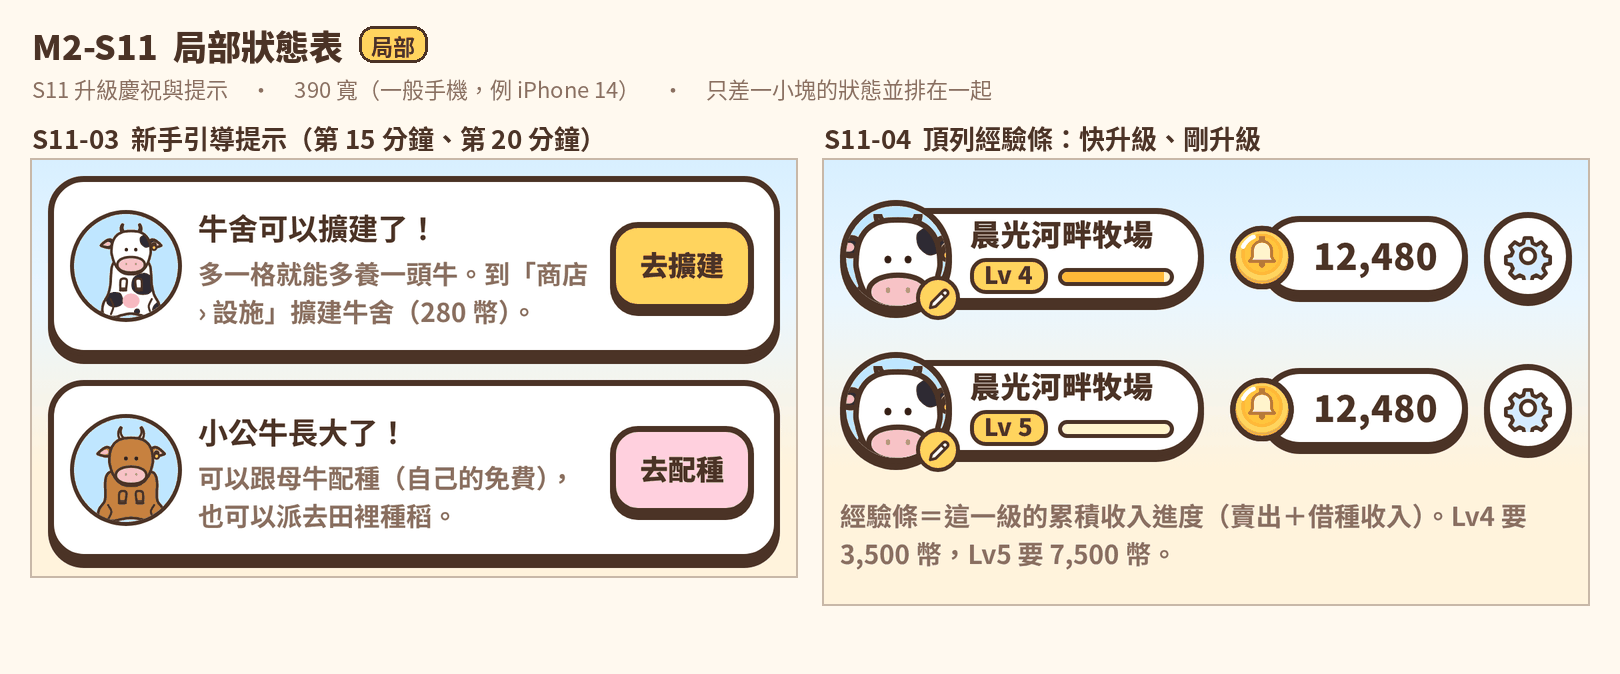
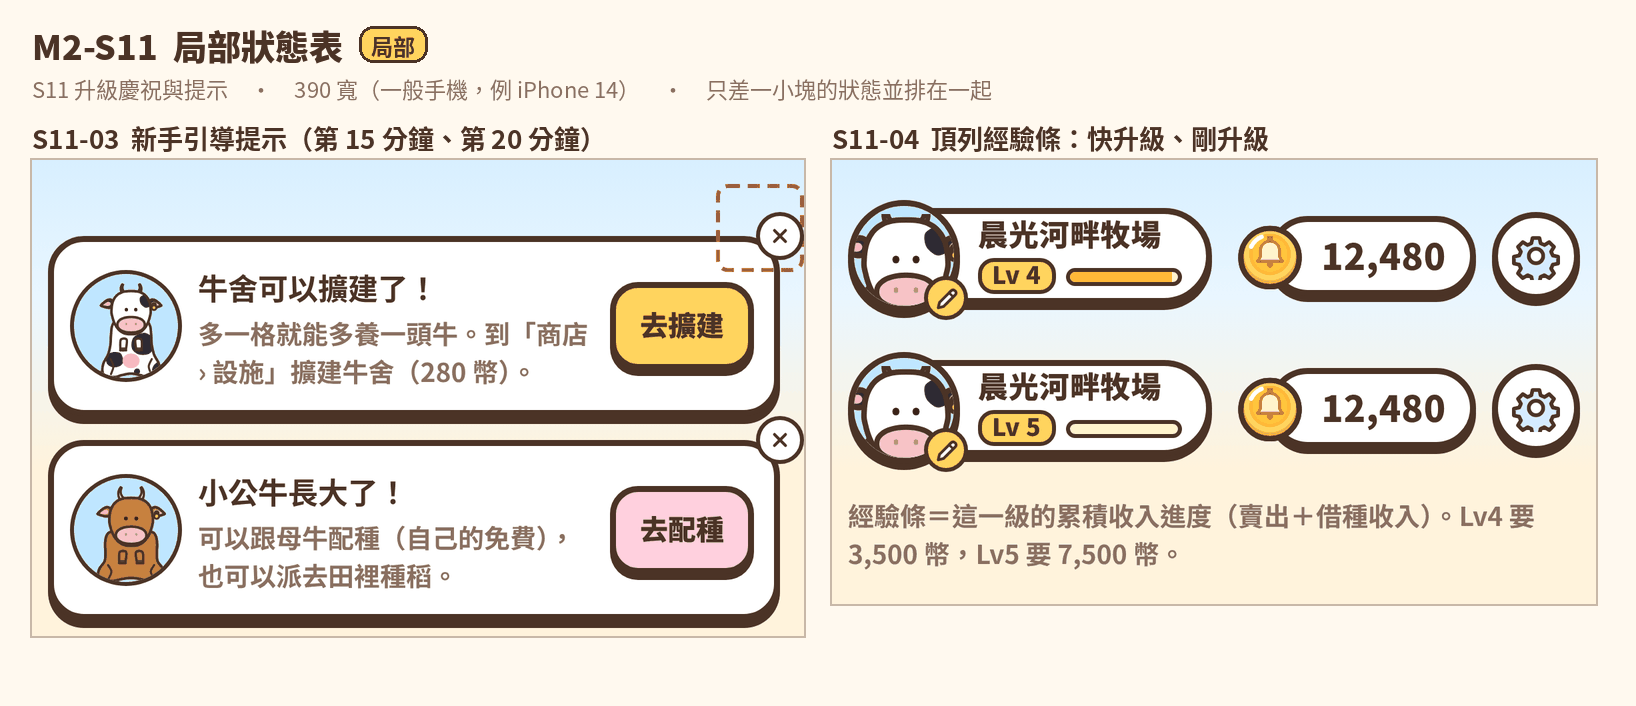
S11 新手引導卡：右上角 ×（白色圓章、點得到 44 × 44）和 S11-06 卡片在牧場頁；cow-app #136 其他三點寫進 scope.md

diff --git a/design/m2/src/js/screens/s10.js b/design/m2/src/js/screens/s10.js
@@ -96,12 +96,31 @@ const S11 = [];
 const full11 = (id, name, render, x = {}) => S11.push({ id, name, type: 'full', render, ...x });
 const part11 = (id, name, crop, render, x = {}) => S11.push({ id, name, type: 'part', crop, render, ...x });
 full11('S11-01', '場主升級慶祝', (ctx) => levelUp(ctx, { lv: 5 }));
-part11('S11-03', '新手引導提示（第 15 分鐘、第 20 分鐘）', '#crop', (ctx) => frame(ctx.dev, { tab: null, hud: false, content: `<div id="crop" class="stack">
-  <div class="coach"><span class="coach-ic">${cowSVG({ breed: 'holstein' }, { w: 56, h: 56 })}</span><div class="grow"><b>${t('s11.coachPenTitle')}</b><p>${t('s11.coachPenBody', { price: 280 })}</p></div><span class="coach-go">${btn(t('s11.coachPenGo'), { small: true, kind: 'primary' })}</span></div>
-  <div class="coach"><span class="coach-ic">${cowSVG({ breed: 'yellow', sex: 'bull', seed: 33 }, { w: 56, h: 56 })}</span><div class="grow"><b>${t('s11.coachBullTitle')}</b><p>${t('s11.coachBullBody')}</p></div><span class="coach-go">${btn(t('s11.coachBullGo'), { small: true, kind: 'pink' })}</span></div></div>` }));
+// 新手引導卡（企劃書 4.13；cow-app #136 的做法，ceo 2026-10-03 同意）：右上角的 × 是白色小圓章（直徑 24），圓心在卡片的右上角；
+// 點得到的範圍 44 × 44（就是 button 本身）往上超出卡片 26、往右超出 12（卡片裡放不下，會碰到按鈕）。hit：用虛線畫出點得到的範圍（說明用）
+function coachCard(kind, { cls = '', hit = false } = {}) {
+  const pen = kind === 'pen';
+  const pic = pen ? cowSVG({ breed: 'holstein' }, { w: 56, h: 56 }) : cowSVG({ breed: 'yellow', sex: 'bull', seed: 33 }, { w: 56, h: 56 });
+  const text = pen ? `<b>${t('s11.coachPenTitle')}</b><p>${t('s11.coachPenBody', { price: 280 })}</p>` : `<b>${t('s11.coachBullTitle')}</b><p>${t('s11.coachBullBody')}</p>`;
+  const go = pen ? btn(t('s11.coachPenGo'), { small: true, kind: 'primary' }) : btn(t('s11.coachBullGo'), { small: true, kind: 'pink' });
+  return `<div class="coach${cls ? ` ${cls}` : ''}${hit ? ' show-hit' : ''}"><span class="coach-ic">${pic}</span><div class="grow">${text}</div><span class="coach-go">${go}</span>
+    <button class="coach-x" aria-label="${t('g.close')}"><span class="cx-dot">${icon('close', 12)}</span></button></div>`;
+}
+part11('S11-03', '新手引導提示（第 15 分鐘、第 20 分鐘）', '#crop', (ctx) => frame(ctx.dev, { tab: null, hud: false, content: `<div id="crop" class="stack coach-sheet">
+  ${coachCard('pen', { hit: true })}
+  ${coachCard('bull')}</div>` }));
 part11('S11-04', '頂列經驗條：快升級、剛升級', '#crop', (ctx) => frame(ctx.dev, { tab: null, hud: false, content: `<div id="crop" class="g-sheet">
   <div class="g-hud">${hud({ level: 4, xp: 96, w: ctx.dev.w })}</div><div class="g-hud">${hud({ level: 5, xp: 0, w: ctx.dev.w })}</div>
   <p class="hint" data-note>經驗條＝這一級的累積收入進度（賣出＋借種收入）。Lv4 要 3,500 幣，Lv5 要 7,500 幣。</p></div>` }));
+
+// 新手引導卡在牧場頁：跑馬燈下面 12、左右各 12，蓋在「我的牛」上面（關掉就回來）；開局第 15 分鐘的牧場（還沒升級、小公牛還沒長大）
+full11('S11-06', '新手引導卡在牧場頁', (ctx) => ranchPage(ctx, {
+  herd: [{ id: 1, breed: 'holstein', x: 96, y: 420, facing: 'right', depth: 1, milk: true }, { id: 2, breed: 'yellow', sex: 'bull', age: 'calf', seed: 33, x: 262, y: 432, facing: 'left', depth: 1 }],
+  pen: { used: 2, slots: 2 },
+  hud: { level: 1, xp: 64, coins: 412 },
+  dock: { bucket: { qty: 6.2, cap: 28, perHour: 14 }, milkLots: [{ qty: 9, tier: 0, fresh: 1 }], cap: 150, beef: 0, rice: 0 },
+  overlays: coachCard('pen', { cls: 'on-ranch' }),
+}));
 
 // 升到 Lv2 的慶祝卡關掉以後出現一次（D22；企劃書 4.11）。這時候還沒備份、也沒打開過備份頁，所以頂列的齒輪上有小點。
 full11('S11-05', '升到 Lv2 之後：提醒備份牧場（只出現一次）', (ctx) => ranchPage(ctx, {

diff --git a/design/m2/src/css/screens.css b/design/m2/src/css/screens.css
@@ -458,7 +458,13 @@
 .lv-big b { font-size: 76px; line-height: 88px; color: var(--ink); -webkit-text-stroke: 0; }
 .lv-sub { font-size: 18px; font-weight: 900; text-align: center; margin-bottom: 6px; }
 .unlock-box { display: flex; flex-direction: column; align-items: center; gap: 6px; width: 100%; padding: 10px; background: #FFFFFF; border: 2px solid var(--line-soft); border-radius: 16px; }
-.coach { display: flex; align-items: center; gap: 8px; padding: 10px 10px 10px 8px; background: #FFFFFF; border: 3px solid var(--ink); border-radius: 18px; box-shadow: 0 4px 0 var(--ink); }
+.coach { position: relative; display: flex; align-items: center; gap: 8px; padding: 10px 10px 10px 8px; background: #FFFFFF; border: 3px solid var(--ink); border-radius: 18px; box-shadow: 0 4px 0 var(--ink); }
+/* 右上角的 ×：白色小圓章（直徑 24、框 2.5、圖示 12），圓心在卡片外框的右上角（cow-app #136）；點得到的範圍 44 × 44 往上超出 26、往右超出 12 */
+.coach-x { position: absolute; right: -15px; top: -29px; width: 44px; height: 44px; padding: 0; background: none; border: 0; } /* 點得到的範圍：外框右邊 +12、上面 −26 */
+.coach-x .cx-dot { position: absolute; left: 20px; top: 14px; width: 24px; height: 24px; border-radius: 12px; background: #FFFFFF; border: 2.5px solid var(--ink); display: grid; place-items: center; line-height: 0; }
+.coach.show-hit .coach-x { outline: 2px dashed #C2541B; outline-offset: -2px; border-radius: 6px; } /* 局部表：虛線是點得到的範圍（說明用） */
+.coach-sheet { padding-top: 30px; margin-right: -12px; padding-right: 12px; } /* 局部表：上面、右邊留出 × 和點得到的範圍，卡片寬度不變 */
+.coach.on-ranch { position: absolute; left: 12px; right: 12px; top: calc(var(--safe-top) + var(--hud-h) + 58px); z-index: 60; }
 .coach-ic { flex: none; width: 56px; height: 56px; border-radius: 50%; background: #BFE6FF; border: 2.5px solid var(--ink); overflow: hidden; line-height: 0; display: grid; place-items: end center; }
 .coach b { font-size: 15px; line-height: 20px; }
 .coach p { font-size: 13px; font-weight: 700; line-height: 19px; color: var(--ink-2); margin-top: 2px; }

diff --git a/design/m2/measure/summary-th.md b/design/m2/measure/summary-th.md
@@ -9,10 +9,10 @@
 
 | 寬度 | 狀態數 | 最小字級 | 有問題的狀態 | 橫向捲動 | 刻意截成「…」 | 要往下捲的狀態 |
 |---|---|---|---|---|---|---|
-| 430×932 | 186 | 12 px | 0 | 0 | 0 | 38 |
-| 390×844 | 186 | 12 px | 0 | 0 | 2 | 49 |
-| 360×800 | 186 | 12 px | 2 | 0 | 4 | 57 |
-| 320×568 | 186 | 12 px | 3 | 0 | 125 | 80 |
+| 430×932 | 187 | 12 px | 0 | 0 | 0 | 38 |
+| 390×844 | 187 | 12 px | 0 | 0 | 2 | 49 |
+| 360×800 | 187 | 12 px | 2 | 0 | 4 | 57 |
+| 320×568 | 187 | 12 px | 3 | 0 | 125 | 80 |
 
 ## 430×932
 
@@ -173,7 +173,7 @@
 | S19-05 | 320 | ความหายาก、หายาก | เลือกได้แค่เกรด ส่วนประเภท เพศ และความหา⏎ยากจะสุ่ม โดยเปิดเผยโอกาสทั้งหมด วัวที่ได้จะ⏎เป็นลูกวัว |
 | S19-05 | 320 | หายาก | สุ่มได้วัวหา⏎ยากง่าย⏎ที่สุด |
 
-<details><summary>所有換了行的泰文（183 句，給校對看斷詞）</summary>
+<details><summary>所有換了行的泰文（185 句，給校對看斷詞）</summary>
 
 | 實際換行（⏎） | Intl.Segmenter 斷詞（\|） |
 |---|---|
@@ -294,6 +294,7 @@
 | ซูเปอร์ไต้ฝุ่นถล่ม ตลาดปิด⏎ทั้งหมด | ซู \| เปอร์ \| ไต้ฝุ่น \| ถล่ม \|   \| ตลาด \| ปิด \| ทั้งหมด |
 | ตัวเล็กสีน้ำตาลอ่อน หน้าสั้น ดวงตากลมโตเป็น⏎ประกาย | ตัว \| เล็ก \| สี \| น้ำตาล \| อ่อน \|   \| หน้า \| สั้น \|   \| ดวงตา \| กลม \| โต \| เป็น \| ประกาย |
 | 9.8 / 28 ขวด⏎เต็มในอีก ~1 ชม. 18 นาที | 9.8 \|   \| / \|   \| 28 \|   \| ขวด \| เต็ม \| ใน \| อีก \|   \| ~ \| 1 \|   \| ชม \| . \|   \| 18 \|   \| นาที |
+| 6.2 / 28 ขวด⏎เต็มในอีก ~1 ชม. 34 นาที | 6.2 \|   \| / \|   \| 28 \|   \| ขวด \| เต็ม \| ใน \| อีก \|   \| ~ \| 1 \|   \| ชม \| . \|   \| 34 \|   \| นาที |
 | เปลี่ยนมือถือหรือมือถือเสียก็กู้⏎คืนได้ | เปลี่ยน \| มือ \| ถือ \| หรือ \| มือ \| ถือ \| เสีย \| ก็ \| กู้ \| คืน \| ได้ |
 | ตอนนี้ "晨光河畔牧場" อยู่ในมือถือเครื่อง⏎อื่น | ตอน \| นี้ \|   \| " \| 晨光 \| 河畔 \| 牧場 \| " \|   \| อยู่ \| ใน \| มือ \| ถือ \| เครื่อง \| อื่น |
 | เซิร์ฟเวอร์มีปัญหาเล็กน้อย โปรดลองใหม่ภาย⏎หลัง | เซิร์ฟเวอร์ \| มี \| ปัญหา \| เล็ก \| น้อย \|   \| โปรด \| ลอง \| ใหม่ \| ภาย \| หลัง |
@@ -339,6 +340,7 @@
 | ขยายคอกวัวได้⏎แล้ว! | ขยาย \| คอก \| วัว \| ได้ \| แล้ว \| ! |
 | ลูกวัวตัวผู้โต⏎แล้ว! | ลูกวัว \| ตัวผู้ \| โต \| แล้ว \| ! |
 | นมใช้พื้นที่ ⏎12% | นม \| ใช้ \| พื้นที่ \|   \| 12 \| % |
+| นมใช้พื้นที่ ⏎6% | นม \| ใช้ \| พื้นที่ \|   \| 6 \| % |
 | จำนวนสายพันธุ์ที่พบ สูงสุด 24 สายพันธุ์ ดึงลงเพื่อโหลด⏎ใหม่ | จำนวน \| สาย \| พันธุ์ \| ที่ \| พบ \|   \| สูงสุด \|   \| 24 \|   \| สาย \| พันธุ์ \|   \| ดึง \| ลง \| เพื่อ \| โหลด \| ใหม่ |
 | คำนวณใหม่ทุกวันอาทิตย์ เวลา 23:00 ดึงลงเพื่อโหลด⏎ใหม่ | คำนวณ \| ใหม่ \| ทุก \| วัน \| อาทิตย์ \|   \| เวลา \|   \| 23 \| : \| 00 \|   \| ดึง \| ลง \| เพื่อ \| โหลด \| ใหม่ |
 | ฟาร์มที่ไม่ได้สำรองไว้ ถ้ามือถือเสียจะกู้คืนไม่⏎ได้ | ฟาร์ม \| ที่ \| ไม่ \| ได้ \| สำรอง \| ไว้ \|   \| ถ้า \| มือ \| ถือ \| เสีย \| จะ \| กู้ \| คืน \| ไม่ \| ได้ |

diff --git a/design/m2/scope.md b/design/m2/scope.md
@@ -325,15 +325,18 @@
 | S11-03 | 新手引導提示：第 15 分鐘「牛舍可以擴建了」、第 20 分鐘「小公牛長大了，可以配種或派去田裡」 | 局部 | 企劃書 4.13 | 新 | 無 |
 | S11-04 | 頂列經驗條：剛升級、快升級 | 局部 | `level_progress` 的 `earned`、`level_at`、`next_at` | 新 | 無 |
 | S11-05 | 升到 Lv2 之後：提醒備份牧場（只出現一次）；「現在備份」「之後再說」 | 整頁 | Lv2 的慶祝卡關掉以後（企劃書 4.11，D22） | 新 | 無 |
+| S11-06 | 新手引導卡在牧場頁：跑馬燈下面，蓋住「我的牛」；右上角 × | 整頁 | 同 S11-03（cow-app #136） | 新 | 無 |
 
 - D24：第一版沒有等級解鎖，原本的 S11-02（升到 Lv3 解鎖 K 線）拿掉。等級只看累積收入（賣出＋借種收入），出貨本身和發現新品種不算。
 - S11-01 彩紙的顏色以 `s10.js` 的色表為準：#FFD45E、#FF9784、#A9DBFF、#BDE8A6、#FFD0DE。以前的 PNG 上第 3–5 種看起來是薄荷綠、米色、淡粉，是存成 256 色時換掉的；2026-10-03 改了調色盤以後是對的顏色（第 1 節「PNG 的顏色」；cow-app #121）。
-- S11-03 新手引導卡（cow-app 的提案，ceo 2026-10-03 同意）：
-  - 放在牧場頁、跑馬燈下面，左右各 12，蓋在場景上。玩家不在牧場頁時等回到牧場頁再出。
+- S11-03 新手引導卡（cow-app 的提案，ceo 2026-10-03 同意；× 和下面幾條照 cow-app #136 的做法補進設計稿）：
+  - 放在牧場頁、跑馬燈下面 12，左右各 12，蓋在場景上（S11-06）。會蓋住「我的牛 n / m」，卡片收起來就回來。玩家不在牧場頁時等回到牧場頁再出。
   - 一次一張：兩張都到時間時先出「牛舍可以擴建了」（第 15 分鐘），關掉以後才出下一張。
-  - 右上角一個小 ×（點得到的範圍至少 44 × 44）。
+  - 右上角的 ×：白色小圓章，直徑 24、框 2.5、關閉圖示 12，圓心在卡片外框的右上角。點得到的範圍 44 × 44 是另一塊，往上超出卡片 26、往右超出 12（卡片裡放不下 44 × 44，會碰到按鈕）；往上會蓋到跑馬燈的下緣，跑馬燈沒有點擊動作。讀螢幕讀「關閉」。局部表 S11-03 用虛線畫出點得到的範圍。
   - 每張只出現一次：按 × 或按卡上的按鈕（去擴建、去配種）都算看過，以後不再出。
-  - 狀態表 S11-03 畫的是卡片內容，× 照這一條加。
+  - 很矮的手機（320 × 568）英文、泰文：說明比較長、卡片比較高，會蓋到下面面板的上緣（包括「收奶」的上半）。跟大新聞一樣放在最上層，按鈕和 × 都點得到，按掉以後面板就回來；不改面板的收合狀態。繁中和其他寬度不會疊到。
+  - 說明的換行：設計稿（Chrome）讓行尾的「」」只佔半格，「設施」」擠得進同一行；app（Flutter）沒有這個規則，換行不一樣。以 app 的換行為準，設計稿不改。
+  - 牛臉：照局部表畫出來的樣子就是規格（56 的牛圖貼在圓的左上角，右下被圓裁掉；`.coach-ic` 的 place-items 在這裡沒有作用），不改。
 
 ### S12 排行榜
 

diff --git a/design/m2/measure/summary-en.md b/design/m2/measure/summary-en.md
@@ -9,10 +9,10 @@
 
 | 寬度 | 狀態數 | 最小字級 | 有問題的狀態 | 橫向捲動 | 刻意截成「…」 | 要往下捲的狀態 |
 |---|---|---|---|---|---|---|
-| 430×932 | 186 | 12 px | 0 | 0 | 0 | 38 |
-| 390×844 | 186 | 12 px | 0 | 0 | 2 | 49 |
-| 360×800 | 186 | 12 px | 1 | 0 | 6 | 58 |
-| 320×568 | 186 | 12 px | 3 | 0 | 125 | 82 |
+| 430×932 | 187 | 12 px | 0 | 0 | 0 | 38 |
+| 390×844 | 187 | 12 px | 0 | 0 | 2 | 49 |
+| 360×800 | 187 | 12 px | 1 | 0 | 6 | 58 |
+| 320×568 | 187 | 12 px | 3 | 0 | 125 | 82 |
 
 ## 430×932
 

diff --git a/design/m2/measure/summary.md b/design/m2/measure/summary.md
@@ -9,10 +9,10 @@
 
 | 寬度 | 狀態數 | 最小字級 | 有問題的狀態 | 橫向捲動 | 刻意截成「…」 | 要往下捲的狀態 |
 |---|---|---|---|---|---|---|
-| 430×932 | 190 | 12 px | 0 | 0 | 0 | 38 |
-| 390×844 | 190 | 12 px | 0 | 0 | 1 | 48 |
-| 360×800 | 190 | 12 px | 0 | 0 | 3 | 56 |
-| 320×568 | 190 | 12 px | 4 | 0 | 127 | 79 |
+| 430×932 | 191 | 12 px | 0 | 0 | 0 | 38 |
+| 390×844 | 191 | 12 px | 0 | 0 | 1 | 48 |
+| 360×800 | 191 | 12 px | 0 | 0 | 3 | 56 |
+| 320×568 | 191 | 12 px | 4 | 0 | 127 | 79 |
 
 ## 430×932
 
